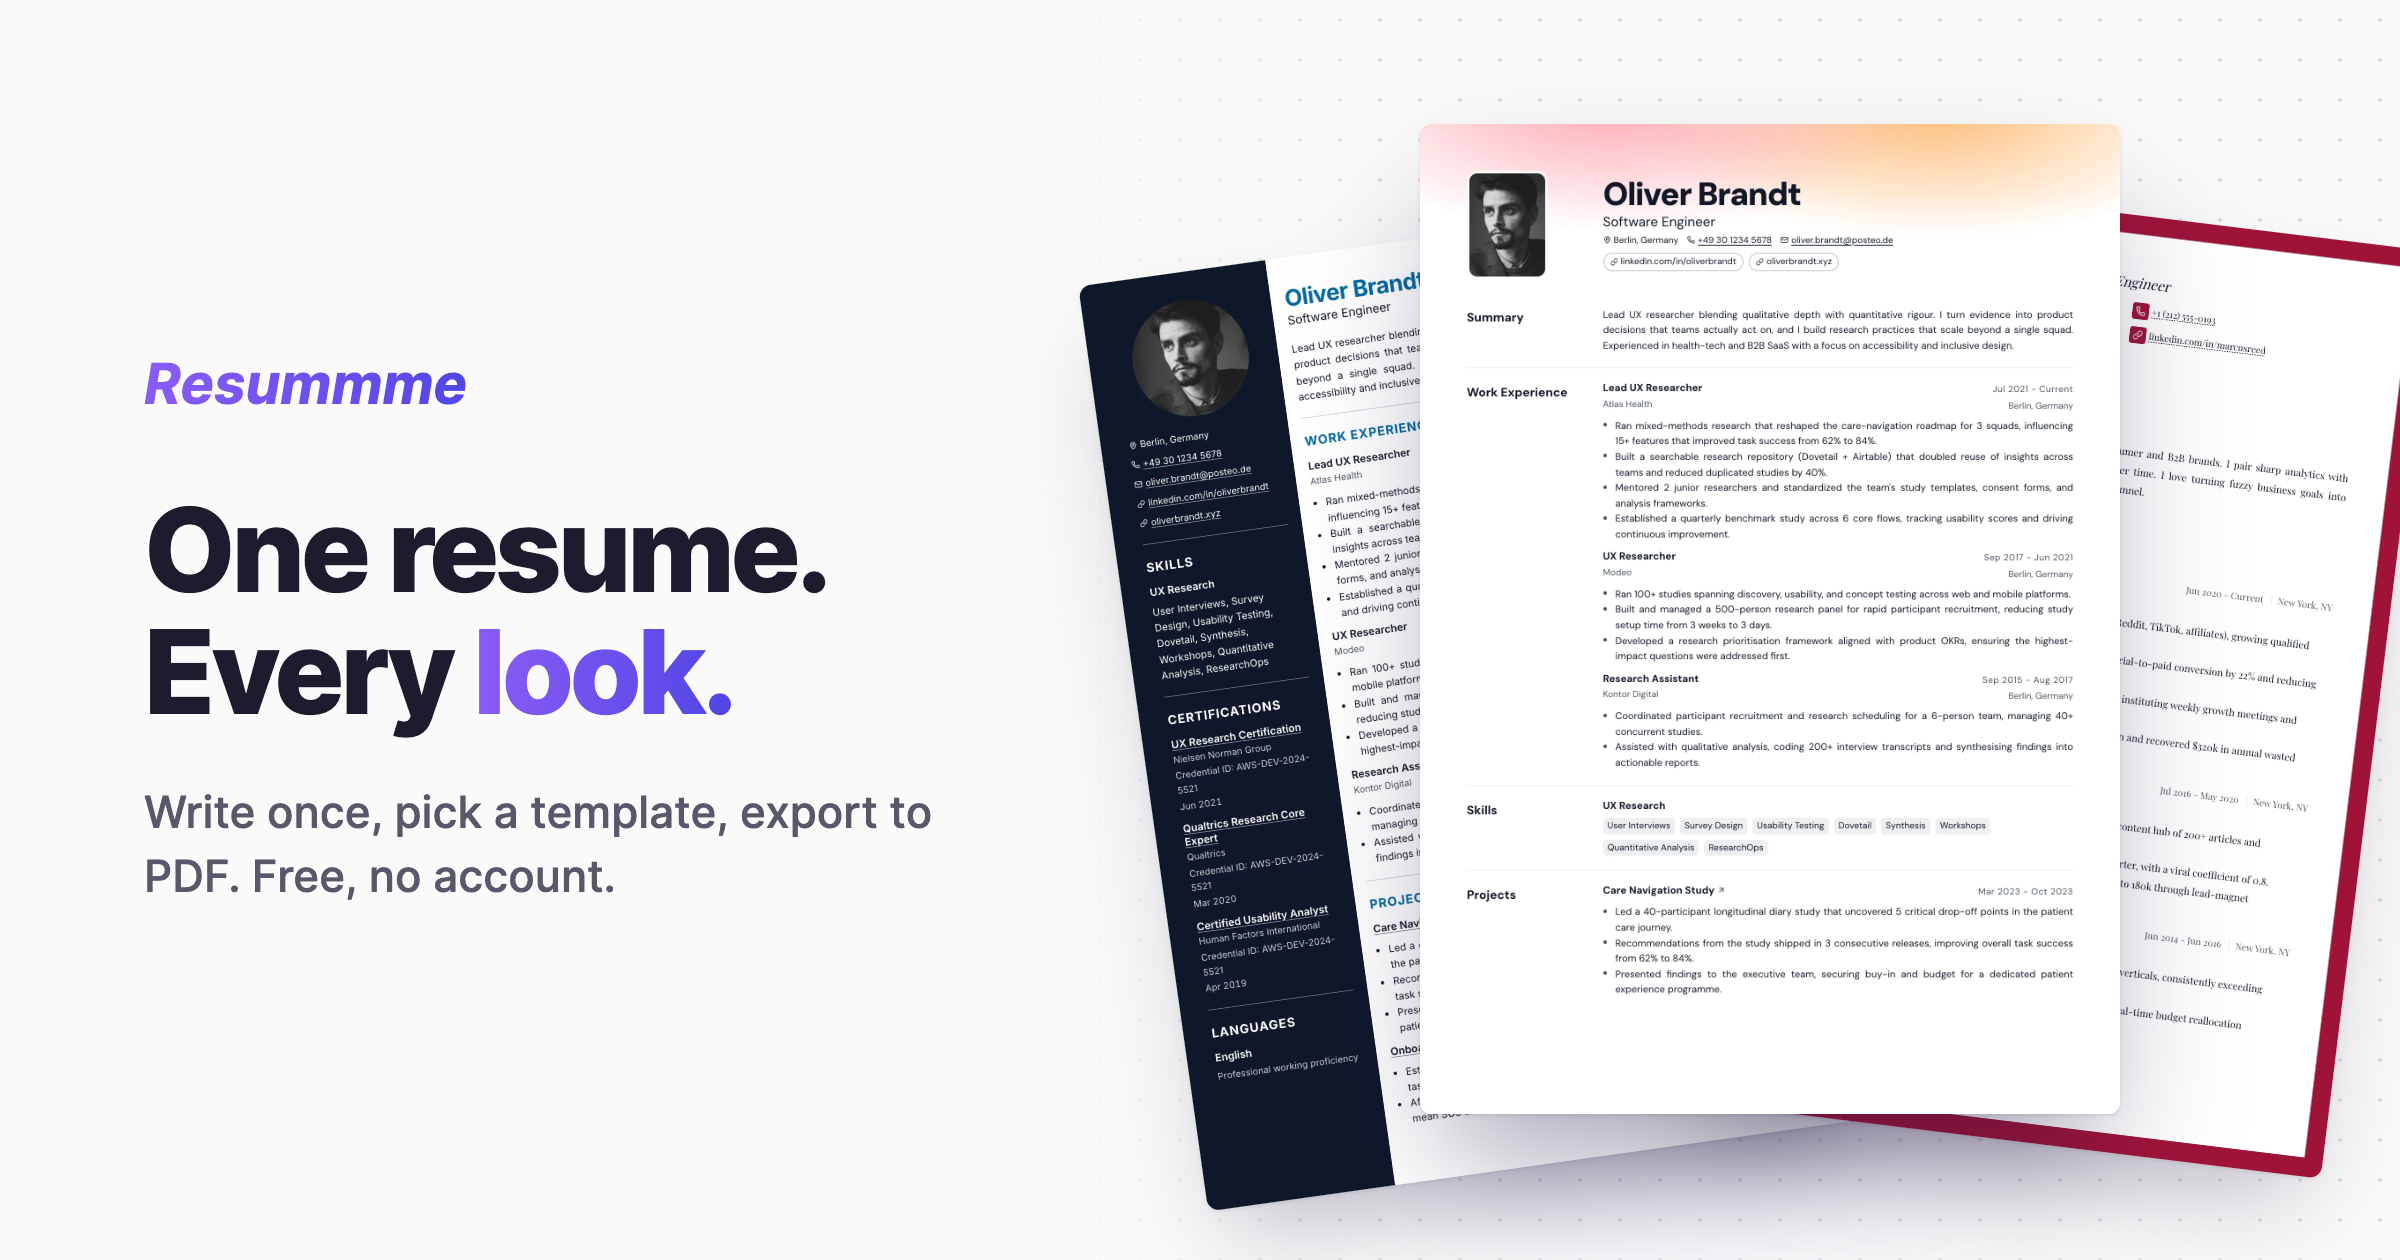
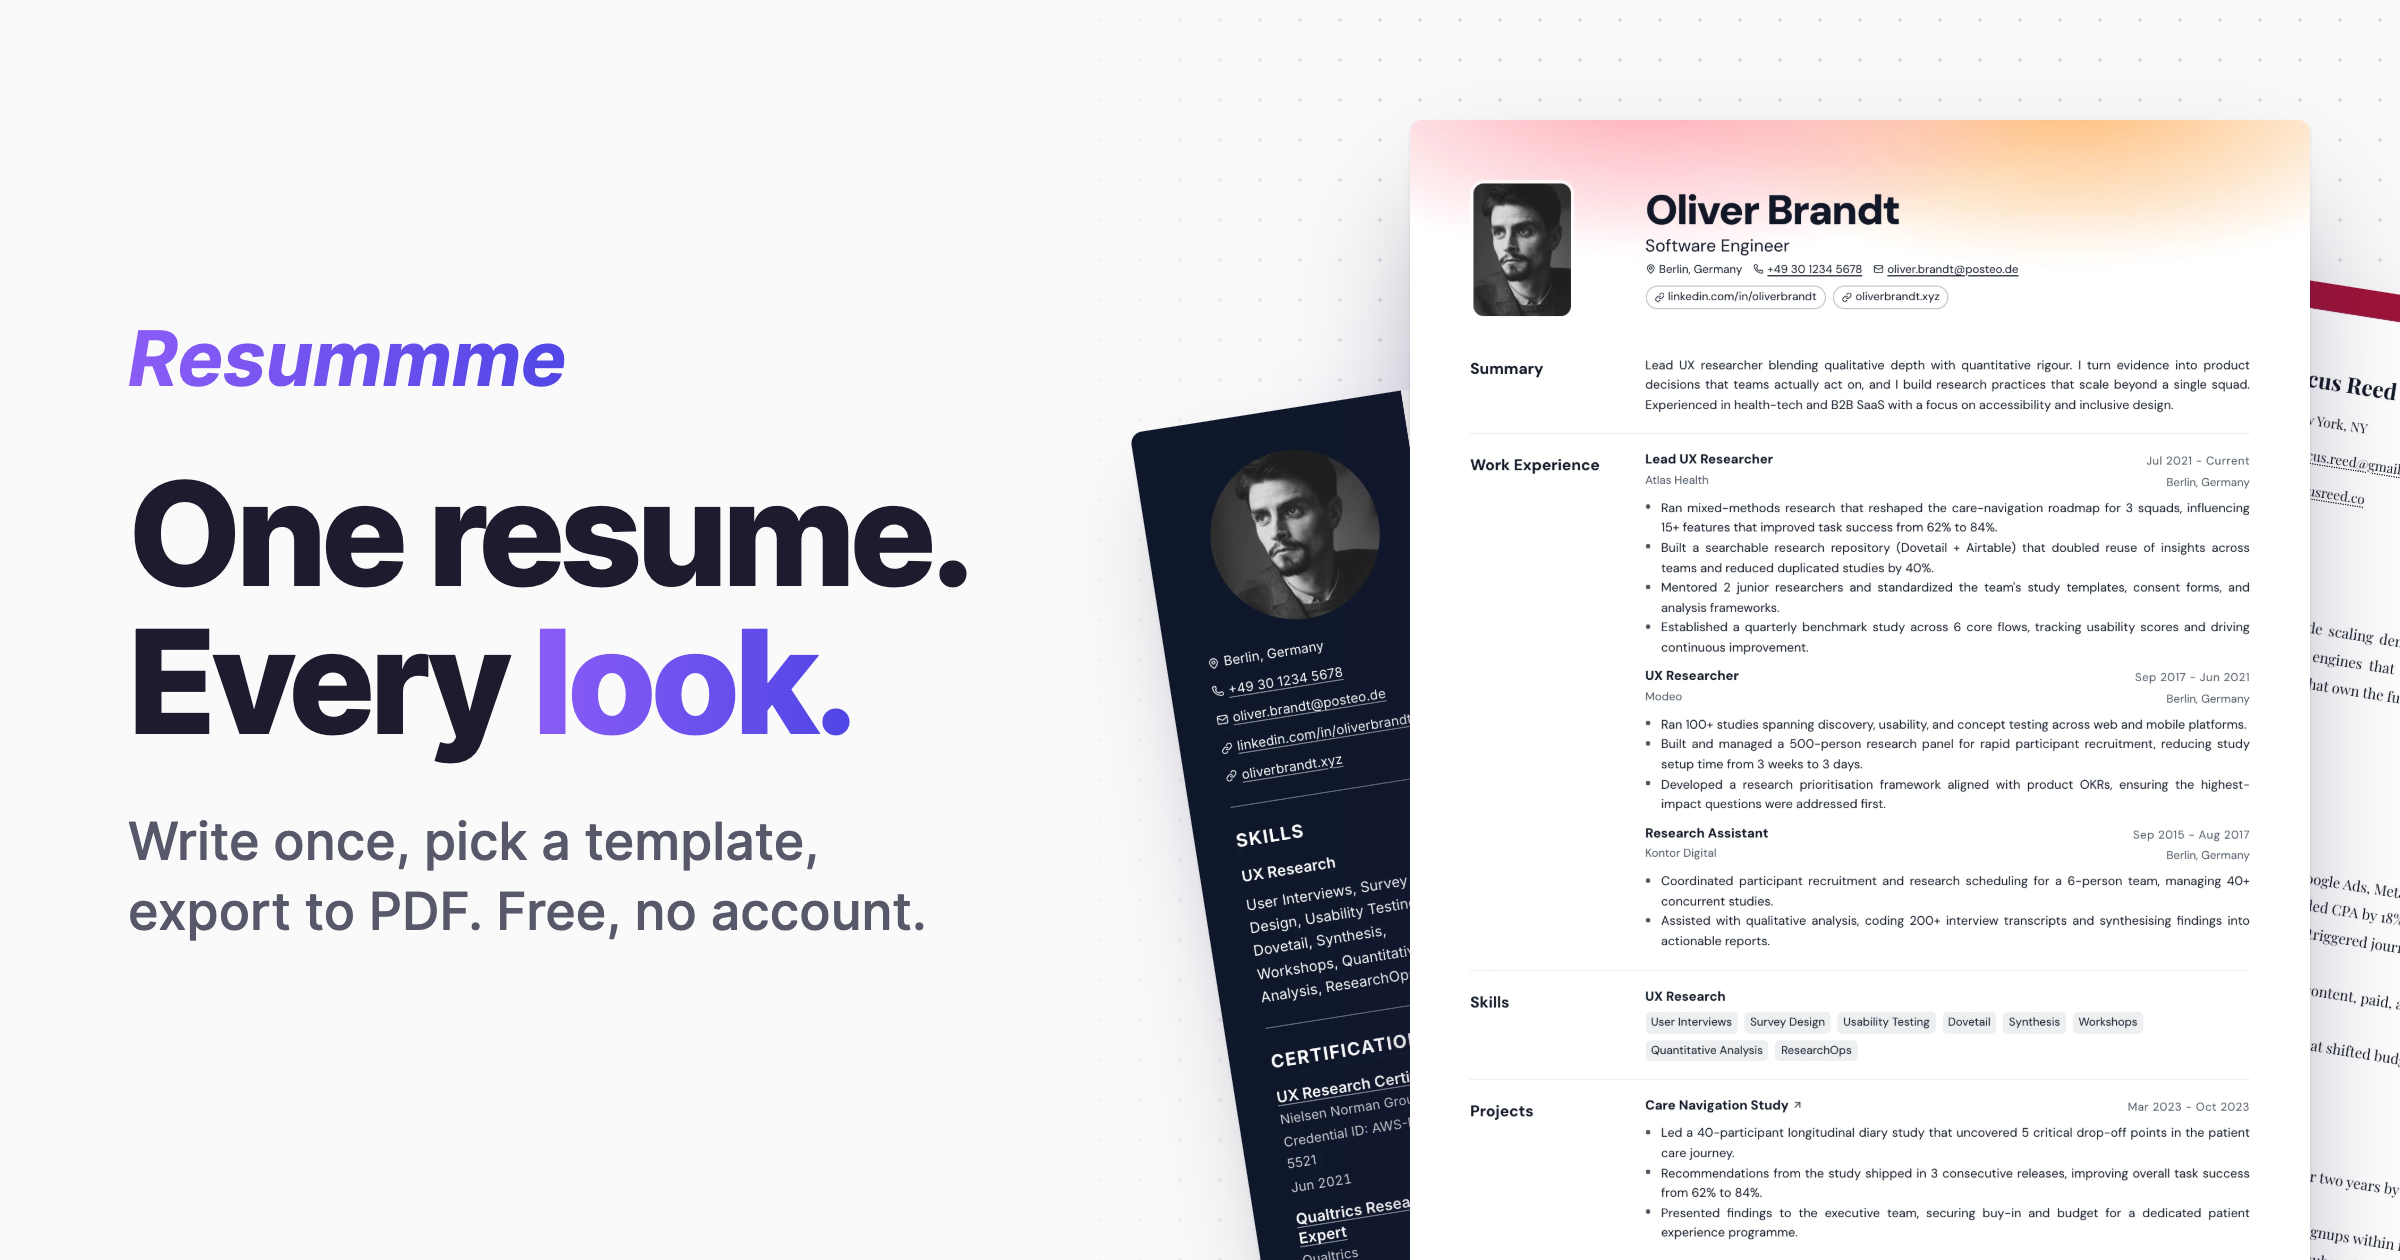
Zoom the share image in so it reads at link-preview size
Larger type (72px headline) and pages ~1.4x bigger, bleeding off the
right and bottom edges instead of sitting fully in frame.

Claude-Session: https://claude.ai/code/session_0177Usw1oj1jT1BrgHbvA7Pd

Changed region(s): [[0.4375, 0.0929, 1.0, 1.0], [0.0312, 0.3714, 0.4062, 0.7429], [0.0312, 0.2476, 0.25, 0.3405]]

diff --git a/scripts/og-image.html b/scripts/og-image.html
@@ -23,34 +23,34 @@
   }
 
   .left {
-    position:relative; z-index:2; height:100%; width:540px;
-    display:flex; flex-direction:column; justify-content:center; padding-left:72px;
+    position:relative; z-index:2; height:100%; width:560px;
+    display:flex; flex-direction:column; justify-content:center; padding-left:64px;
   }
   .logo {
-    font-size:28px; font-weight:700; font-style:italic;
+    font-size:38px; font-weight:700; font-style:italic;
     background: linear-gradient(to right, #8b5cf6, #4f46e5);
     -webkit-background-clip:text; background-clip:text; color:transparent;
-    margin-bottom:36px; padding-right:4px; align-self:flex-start;
+    margin-bottom:28px; padding-right:6px; align-self:flex-start;
   }
   h1 {
-    font-size:58px; line-height:1.05; font-weight:800; color:#1e1b2e;
-    letter-spacing:-0.035em; margin-bottom:24px;
+    font-size:72px; line-height:1.02; font-weight:800; color:#1e1b2e;
+    letter-spacing:-0.04em; margin-bottom:26px;
   }
   h1 .accent {
     background: linear-gradient(to right, #8b5cf6, #4f46e5);
     -webkit-background-clip:text; background-clip:text; color:transparent;
   }
-  .tag { font-size:22px; line-height:1.45; color:#57596b; font-weight:500; max-width:400px; }
+  .tag { font-size:26px; line-height:1.35; color:#57596b; font-weight:500; max-width:420px; }
 
   .page {
-    position:absolute; width:330px; aspect-ratio: 1588 / 2246;
+    position:absolute; width:480px; aspect-ratio: 1588 / 2246;
     background-size:cover; background-position:top center;
     border-radius:6px;
     box-shadow: 0 1px 2px rgba(30,20,60,0.08), 0 24px 48px -12px rgba(30,20,60,0.28);
   }
-  .back-left  { left:570px; top:118px; transform: rotate(-8deg); background-image:url("../public/templates/split-midnight.webp"); }
-  .back-right { left:860px; top:104px; transform: rotate(7deg);  background-image:url("../public/templates/folio-claret.webp"); }
-  .front      { left:710px; top:62px;  width:350px; z-index:1;
+  .back-left  { left:615px; top:175px; transform: rotate(-9deg); background-image:url("../public/templates/split-midnight.webp"); }
+  .back-right { left:950px; top:150px; transform: rotate(9deg);  background-image:url("../public/templates/folio-claret.webp"); }
+  .front      { left:705px; top:60px;  width:450px; z-index:1;
                 background-image:url("../public/templates/aurora-peach.webp");
                 box-shadow: 0 1px 2px rgba(30,20,60,0.1), 0 32px 64px -12px rgba(30,20,60,0.4); }
 </style>
